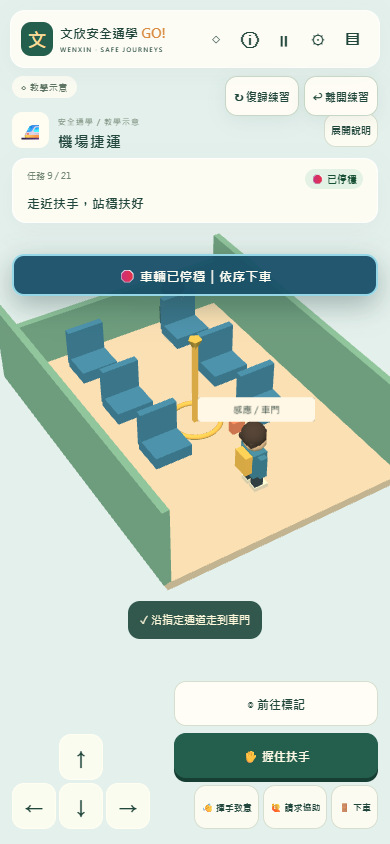
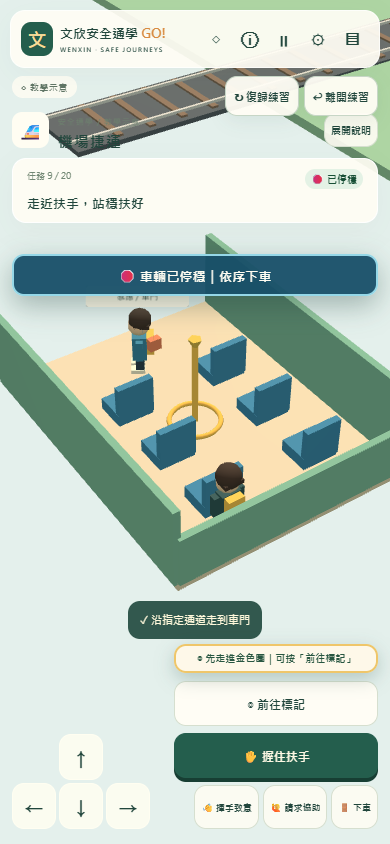
Fix metro arrival geometry and rename bus practice point

diff --git a/src/world.ts b/src/world.ts
@@ -215,10 +215,10 @@ export class World {
     },undefined,()=>{this.container.dataset.streetAssets='failed';this.label('路燈模型待載入',-6,2,13,3);});
   }
   buildExploreMarkers(){this.root.add(this.exploreMarkers);for(const site of exploreSites){const g=new THREE.Group();const ring=new THREE.Mesh(new THREE.TorusGeometry(.66,.09,8,24),this.mat(0xf3c55e));ring.rotation.x=-Math.PI/2;ring.position.y=.11;g.add(ring);const pin=new THREE.Mesh(new THREE.ConeGeometry(.16,.38,7),this.mat(0x34705c));pin.position.y=1.1;g.add(pin);this.label(`${site.scenario.icon} ${site.scenario.label}`,0,1.9,0,3.3,g);g.position.set(site.entry.x,0,site.entry.z);g.userData.siteId=site.scenario.id;this.exploreMarkers.add(g);}}
-  buildLandmarkVehicles(){this.root.add(this.landmarkVehicles);for(const [kind,x,z] of [['school_bus',30,9],['parent',-16,6],['parent',12,6],['scooter',-1,6.5],['scooter',-38,-14],['after_school_shuttle',-6,-5],['mrt',64,3]] as const){const vehicle=this.makeVehicle(kind);vehicle.position.set(x,0,z);if(kind!=='mrt'&&(z>=7||kind==='parent'||kind==='scooter'&&x===-1))vehicle.rotation.y=x>=0?-Math.PI/2:Math.PI/2;this.landmarkVehicles.add(vehicle);}}
+  buildLandmarkVehicles(){this.root.add(this.landmarkVehicles);for(const [kind,x,z] of [['school_bus',30,9],['parent',-16,6],['parent',12,6],['scooter',-1,6.5],['scooter',-38,-14],['after_school_shuttle',-6,-5],['mrt',64,17.2]] as const){const vehicle=this.makeVehicle(kind);vehicle.position.set(x,0,z);if(kind==='mrt')vehicle.rotation.y=-Math.PI/2;else if(z>=7||kind==='parent'||kind==='scooter'&&x===-1)vehicle.rotation.y=x>=0?-Math.PI/2:Math.PI/2;this.landmarkVehicles.add(vehicle);}}
   cone(x:number,z:number){this.box(.58,.1,.58,0xf37f44,x,.1,z);const cone=new THREE.Mesh(new THREE.ConeGeometry(.23,.75,8),this.mat(0xf4874c));cone.position.set(x,.5,z);cone.castShadow=true;this.root.add(cone);this.box(.24,.13,.24,0xfff9e6,x,.54,z);}
   chain(start:number,end:number){for(let z=start;z<end;z+=.15){const mesh=new THREE.Mesh(new THREE.TorusGeometry(.1,.022,4,7),this.mat(0xf2d56e));mesh.rotation.y=Math.PI/2;mesh.rotation.x=Math.round(z/.15)%2?Math.PI/3:0;mesh.position.set(1,.95,z);this.root.add(mesh);}}
-  makeTrain(showLabel=true){const g=new THREE.Group();for(const offset of [-8,0,8]){const car=new THREE.Group();this.box(2.55,2.35,7.45,0xb4a0ca,0,1.47,0,car);this.box(2.55,.25,7.45,0x775e9b,0,2.75,0,car);for(const z of [-2.6,-1.5,1.45,2.55])for(const x of [-1.3,1.3])this.box(.04,.85,.8,0x83bfcc,x,2,z,car);this.box(.07,1.85,1.25,0xe8e3d0,-1.32,1.45,.1,car).userData.action='board';for(const z of [-2.4,2.4]){this.box(.4,.48,.65,0x34454e,0,.38,z,car);for(const x of [-1.23,1.23])this.wheel(.34,.2,x,.39,z,car,Math.sign(x));}car.position.z=offset;g.add(car);const wheels=(g.userData.wheels??=[]) as THREE.Group[];wheels.push(...(car.userData.wheels as THREE.Group[]));}if(showLabel)this.label('普通車・3 節車廂・示意',0,3.4,0,5,g);g.traverse(o=>{o.userData.vehicle=true;});return g;}
+  makeTrain(showLabel=true){const g=new THREE.Group();for(const offset of [-8,0,8]){const car=new THREE.Group();this.box(2.55,2.35,7.45,0xb4a0ca,0,1.47,0,car);this.box(2.55,.25,7.45,0x775e9b,0,2.75,0,car);for(const z of [-2.6,-1.5,1.45,2.55])for(const x of [-1.3,1.3])this.box(.04,.85,.8,0x83bfcc,x,2,z,car);this.box(.07,1.85,1.25,0xe8e3d0,-1.32,1.45,.1,car).userData.action='board';for(const z of [-2.4,2.4]){this.box(.4,.48,.65,0x34454e,0,.38,z,car);for(const x of [-1.23,1.23])this.wheel(.34,.2,x,.49,z,car,Math.sign(x));}car.position.z=offset;g.add(car);const wheels=(g.userData.wheels??=[]) as THREE.Group[];wheels.push(...(car.userData.wheels as THREE.Group[]));}if(showLabel)this.label('普通車・3 節車廂・示意',0,3.4,0,5,g);g.traverse(o=>{o.userData.vehicle=true;});return g;}
   makeVehicle(kind:string,showLabel=true){if(kind==='mrt')return this.makeTrain(showLabel);const g=new THREE.Group();if(kind==='scooter'){
       for(const z of [-1.05,1.05])this.wheel(.42,.22,0,.43,z,g);
       this.box(.72,.42,1.9,0x55a7a0,0,.66,0,g);this.box(.65,.22,.85,0x284c50,0,1,-.45,g);this.box(.12,1.05,.12,0x4e6264,0,1.1,.9,g);this.box(1.15,.12,.14,0x4e6264,0,1.6,.9,g);this.box(.55,.9,.12,0xe3e7dd,0,1.05,1.06,g);g.userData.brakeLights=[this.box(.45,.18,.08,0xc9493c,0,.91,-1.04,g)];const rider=this.person(0x547c91);rider.scale.setScalar(.62);rider.position.set(0,.62,.45);g.add(rider);if(showLabel)this.label('機車接送・示意',0,2.5,0,3,g);g.traverse(o=>{o.userData.vehicle=true;});return g;
@@ -288,18 +288,23 @@ export class World {
     this.label('家長汽車・停穩後看後方再下車',130,2.8,-2.1,5,this.parentCabin);
   }
   buildStation(){
-    this.box(16,.4,26,0xd7dfda,55,-.3,3);this.box(5,.15,26,0x576674,64,-.08,3);this.box(.18,.02,23,palette.yellow,60.6,.04,3);
-    for(const x of [49,60])for(const z of [-9,15])this.box(.3,4,.3,palette.green,x,2,z);
-    this.box(13,.25,4,palette.green,54.5,4.2,-6);
+    // The platform and rails run parallel to the road beyond its outer sidewalk; the train never crosses a car lane.
+    this.box(34,.4,6.5,0xd7dfda,63,-.3,12.25);
+    this.box(70,.2,3.6,0x59636c,70,-.16,17.2);
+    for(let x=37;x<=103;x+=1.5)this.box(.3,.09,3.15,0x8b7563,x,0,17.2);
+    for(const z of [15.97,18.43])this.box(70,.12,.12,0xd6d9d8,70,.09,z);
+    this.box(30,.02,.18,palette.yellow,63,.04,14.7);
+    for(const x of [48,78])for(const z of [9,15.4])this.box(.3,4,.3,palette.green,x,2,z);
+    this.box(13,.25,1.2,palette.green,54.5,4.2,9);
     // Keep the station open toward the player: a solid building hid the child and fare gate.
     for(const x of [48.2,55.8])this.box(.3,3.5,.3,palette.green,x,1.75,5.2);
     this.stationRoof=this.box(9,.28,7,0x4d876d,52,3.75,8);
     const stationRoofMaterial=this.stationRoof.material as THREE.MeshStandardMaterial;
     stationRoofMaterial.transparent=true;stationRoofMaterial.opacity=.32;stationRoofMaterial.depthWrite=false;
-    this.label('捷運站入口・示意',52,4.2,10,4.5);this.box(1.4,1.3,.35,0x477b72,55,1,7).userData.action='card';this.label('刷卡閘門',55,2.2,7,2.5);
-    this.box(7,.2,7,0xbfcbbd,56,.1,4);this.label('A8 方向普通車',55,3.2,-5,6);this.label('月台方向為教學示意',55,2.3,-5,6);this.label('先下後上',58,2,3,3);
-    for(let z=2;z<6;z+=1)this.box(1,.02,.15,palette.yellow,59,.04,z);
-    const officer=this.person(palette.mint);officer.position.set(57,0,3);this.root.add(officer);this.label('站務協助',57,2.3,3,2.5);
+    this.label('捷運站入口・示意',52,4.2,10,4.5);this.box(1.4,1.3,.35,0x477b72,55,1,12).userData.action='card';this.label('刷卡閘門',55,2.2,12,2.5);
+    this.box(7,.2,3,0xbfcbbd,56,.1,12);this.label('A8 方向普通車',55,3.2,14,6);this.label('月台方向為教學示意',55,2.3,14,6);this.label('先下後上',61,2,13.2,3);
+    for(let x=59;x<64;x+=1)this.box(.15,.02,1,palette.yellow,x,.04,13.2);
+    const officer=this.person(palette.mint);officer.position.set(57,0,13.2);this.root.add(officer);this.label('站務協助',57,2.3,13.2,2.5);
   }
   buildDestination(){
     this.box(14,.3,18,palette.path,82,-.2,-1);this.box(5,4,3,palette.cream,80,2,-8);this.box(6,.3,4,palette.coral,80,4.1,-8);this.label('示意目的地・安全交接區',80,3,-5,6);this.label('非真實安親班或住址',80,2,-5,5);this.box(6,.03,9,0xc7dac8,80,.04,0);
@@ -376,7 +381,8 @@ export class World {
     if(j){
       const modeChanged=this.lastMode!==j.scenario.mode;
       if(modeChanged){this.root.remove(this.vehicle);this.vehicle.traverse(o=>{if(o instanceof THREE.Mesh){o.geometry.dispose();if(o.material instanceof THREE.Material)o.material.dispose();}if(o instanceof THREE.Sprite){this.labels.delete(o);o.material.map?.dispose();o.material.dispose();}});this.vehicle=this.makeVehicle(j.scenario.mode);this.root.add(this.vehicle);this.lastMode=j.scenario.mode;}
-      const stop=j.vehiclePosition;this.vehicle.visible=!!stop;if(stop)this.vehicle.position.set(j.position.x>70&&!j.inside?86:stop.x,0,j.position.x>70&&!j.inside?1:stop.z);this.vehicle.rotation.y=stop&&(stop.z>=7||j.scenario.mode==='parent'||j.scenario.id==='scooter_main')?(stop.x>=0?-Math.PI/2:Math.PI/2):0;
+      const stop=j.vehiclePosition;this.vehicle.visible=!!stop;if(stop){const destinationView=j.scenario.mode!=='mrt'&&j.position.x>70&&!j.inside;this.vehicle.position.set(destinationView?86:stop.x,0,destinationView?1:stop.z);}this.vehicle.rotation.y=j.scenario.mode==='mrt'?-Math.PI/2:stop&&(stop.z>=7||j.scenario.mode==='parent'||j.scenario.id==='scooter_main')?(stop.x>=0?-Math.PI/2:Math.PI/2):0;
+      this.container.dataset.vehicleX=stop?this.vehicle.position.x.toFixed(2):'';this.container.dataset.vehicleZ=stop?this.vehicle.position.z.toFixed(2):'';
       if(stop)this.rollVehicle(this.vehicle,dt);else this.wheelOrigins.delete(this.vehicle);
       const vehicleBraking=!!stop&&j.departAt===null&&(j.facts.vehicleStopped===true||j.rideAt===null&&j.vehicleProgress>.65);
       this.setBrakes(this.vehicle,vehicleBraking);this.container.dataset.vehicleWheelAngle=this.wheelAngle(this.vehicle);this.container.dataset.vehicleBrake=String(vehicleBraking);

diff --git a/src/game/journey.ts b/src/game/journey.ts
@@ -48,13 +48,13 @@ export function makeSteps(s:Scenario,reverse:boolean):Step[]{
   const shuttle=s.mode==='after_school_shuttle';
   const publicTransit=['mrt','bus','transfer'].includes(s.mode);
   const mrt=s.mode==='mrt';
-  const queue=shuttle?p(2,-5):mrt?p(59,3):p((s.stop?.x??3)-2,11);
+  const queue=shuttle?p(2,-5):mrt?p(61,13.2):p((s.stop?.x??3)-2,11);
   const assembly=shuttle?p(4,-8):mrt?p(53,11):p((s.stop?.x??3)-3,11);
   const steps=[step('assembly',shuttle?'沿左側步道到集合區':mrt?'沿人行空間抵達捷運站外':'走到各自的示意安全候車區','assembly','📍 安全集合',assembly)];
-  if(mrt)steps.push(step('station','走進站體，找到通往月台的路','station','🏢 進入車站',p(53,8)),step('fareGate','在閘門刷卡後再往月台走','card','💳 刷卡進站',p(55,7)));
-  steps.push(step('identify',mrt?'確認往 A8 的普通車方向':'確認車輛識別：星星 01','identify',mrt?'🚈 確認方向':'⭐ 核對車號',mrt?p(55,6):assembly),step('queue','站在隊伍尾端，等前方同學','queue','👣 依序排隊',queue));
+  if(mrt)steps.push(step('station','走進站體，找到通往月台的路','station','🏢 進入車站',p(53,12)),step('fareGate','在閘門刷卡後再往月台走','card','💳 刷卡進站',p(55,12)));
+  steps.push(step('identify',mrt?'確認往 A8 的普通車方向':'確認車輛識別：星星 01','identify',mrt?'🚈 確認方向':'⭐ 核對車號',mrt?p(56,13):assembly),step('queue','站在隊伍尾端，等前方同學','queue','👣 依序排隊',queue));
   if(s.mode==='mrt')steps.push(step('platform','站在安全線後，先讓乘客下車','platform','🚈 先下後上',queue,'platform'));
-  steps.push(step('clearance',shuttle?'等車停妥，由成人開放指定口':'等車停穩、開門及人員引導','clearance','🧑 請成人確認',queue,'gate'),step('board','沿指定通道走到車門','board','🚪 依序上車',shuttle?p(-4,-5):mrt?p(61,3):p((s.stop?.x??3)-1,11),'board'));
+  steps.push(step('clearance',shuttle?'等車停妥，由成人開放指定口':'等車停穩、開門及人員引導','clearance','🧑 請成人確認',queue,'gate'),step('board','沿指定通道走到車門','board','🚪 依序上車',shuttle?p(-4,-5):mrt?p(64,15.3):p((s.stop?.x??3)-1,11),'board'));
   if(publicTransit){if(!mrt)steps.push(step('card','在車內感應票卡','card','💳 感應票卡',p(110,2)));steps.push(step('rail','走近扶手，站穩扶好','rail','✋ 握住扶手',p(110,0),'rail'),step('depart','準備妥當，開始乘車','depart','🚈 穩穩乘車',p(110,0),'rail'));}
   else steps.push(step('seat','依虛構座號找到 02A','seat','💺 入座 02A',p(108.5,-1),'seat'),step('buckle','將插扣拖入扣環，或點按扣合','buckle','🔒 扣好安全帶',p(108.5,-1),'buckle'),step('depart','坐定繫好，等候發車','depart','🚐 準備出發',p(108.5,-1),'depart'));
   if(s.mode==='bus'||s.mode==='transfer')steps.push(step('bell','接近示意目的站，按下車鈴','bell','🔔 按下車鈴',p(110,0)));
@@ -103,6 +103,7 @@ export class Journey {
     if(this.scenario.mode==='parent')return {x:stop.x+remaining*(stop.x<0?-12:12),z:stop.z};
     if(this.scenario.id==='scooter_main')return {x:stop.x-remaining*8,z:stop.z};
     if(this.scenario.id==='scooter_side')return {x:stop.x,z:stop.z-remaining*12};
+    if(this.scenario.mode==='mrt')return {x:stop.x+remaining*25,z:stop.z};
     return stop.z>=7?{x:stop.x+remaining*12,z:stop.z}:{x:stop.x,z:stop.z+remaining*(this.scenario.mode==='after_school_shuttle'?7:12)};
   }
   get gateOpen(){return this.scenario.mode==='after_school_shuttle'&&this.current?.id==='board'&&this.evaluator.evaluate('gate',this.facts).allowed;}
@@ -170,7 +171,7 @@ export class Journey {
     if(action==='arrival')this.facts.adultCleared=true;
     if(action==='bell')this.facts.bell=true;
     if(action==='unbuckle'){this.facts.buckled=false;this.facts.unbuckled=true;}
-    if(action==='alight')this.position=this.scenario.mode==='scooter'?(this.scenario.id==='scooter_side'?p(-33,-14):p(-5,11)):this.scenario.mode==='mrt'?p(59,3):this.scenario.mode==='after_school_shuttle'||this.reverse?p(80,2):this.scenario.mode==='parent'?p(this.scenario.stop!.x-2.4,10.8):p(1,9);
+    if(action==='alight')this.position=this.scenario.mode==='scooter'?(this.scenario.id==='scooter_side'?p(-33,-14):p(-5,11)):this.scenario.mode==='mrt'?p(64,15.3):this.scenario.mode==='after_school_shuttle'||this.reverse?p(80,2):this.scenario.mode==='parent'?p(this.scenario.stop!.x-2.4,10.8):p(1,9);
     if(action==='clearCar'){this.facts.doorClosed=true;this.facts.clearOfBlindSpot=true;this.departAt=this.elapsed;}
     if(action==='clearScooter'){this.facts.clearOfBlindSpot=true;this.departAt=this.elapsed;}
     this.index++;this.checkpoint={...this.position};this.stoppedFor=0;
@@ -186,13 +187,13 @@ export class Journey {
     }
     const to={x:this.position.x+dx,z:this.position.z+dz};
     if(this.inside){if(this.scenario.mode==='scooter'?to.x<117||to.x>123||to.z<-4||to.z>3.5:this.scenario.mode==='parent'?to.x<127||to.x>133||to.z<-4||to.z>3.5:to.x<107||to.x>113||to.z<-4||to.z>3.5)return false;}
-    else if(this.position.x>70){if(to.x<76||to.x>83||to.z<-6||to.z>5)return false;}
-    else if(this.scenario.mode==='mrt'&&this.position.x>45&&this.position.x<70&&this.position.z<7.4){
-      if(to.x<47||to.x>62||to.z< -4||to.z>12)return false;
-      if(to.x>60.2){const r=this.evaluate('platform',{correctDirection:this.facts.correctDirection,behindLine:this.current?.id==='board',doorNotClosing:this.facts.doorOpen});if(!r.allowed)return false;}
+    else if(this.position.x>70&&this.scenario.mode!=='mrt'){if(to.x<76||to.x>83||to.z<-6||to.z>5)return false;}
+    else if(this.scenario.mode==='mrt'&&this.position.x>45&&this.position.x<80&&this.position.z>8.5&&this.position.z<20){
+      if(to.x<47&&!(this.current?.id==='walkToSchool'&&onPedestrianSpace(to))||to.x>79||to.z<9||to.z>15.5)return false;
+      if(to.z>14.7&&to.z>this.position.z){const r=this.evaluate('platform',{correctDirection:this.facts.correctDirection,behindLine:this.current?.id==='board',doorNotClosing:this.facts.doorOpen});if(!r.allowed)return false;}
     }
     else {
-      const stationWalk=this.scenario.mode==='mrt'&&to.x>=47&&to.x<=62&&to.z>=-4&&to.z<=12;
+      const stationWalk=this.scenario.mode==='mrt'&&to.x>=47&&to.x<=79&&to.z>=9&&to.z<=15.5;
       if(!(onPedestrianSpace(to)||stationWalk||onMarkedCrosswalk(to))){if(otherRoads.some(road=>intersects(this.position,to,road)))this.evaluate('vehicleLane',{safePlace:false});return false;}
       if(intersects(this.position,to,campusParkingArea)){this.evaluate('vehicleLane',{safePlace:false});return false;}
       if(this.scenario.stop&&(this.scenario.stop.z>=7||this.scenario.mode==='parent')&&intersects(this.position,to,{minX:this.scenario.stop.x-2,maxX:this.scenario.stop.x+2,minZ:this.scenario.mode==='parent'?4.6:7.1,maxZ:this.scenario.mode==='parent'?7.35:10.4})){

diff --git a/tests/safety/evaluator.test.ts b/tests/safety/evaluator.test.ts
@@ -41,6 +41,25 @@ describe('V2.4 scene data validation',()=>{
   it('visible car approach slows before stopping while the safety gate stays closed',()=>{const car=scenarios.find(s=>s.id==='parent')!;const j=new Journey(car);const start=j.vehiclePosition!;j.update(2.5);const halfway=j.vehiclePosition!;expect(Math.abs(halfway.x-car.stop!.x)).toBeLessThan(Math.abs(start.x-car.stop!.x)/2);expect(j.facts.vehicleStopped).toBe(false);expect(j.attempt('park')).toBe(false);expect(j.blocked?.ruleId).toBe('parentPark');j.retry();j.update(2.5);expect(j.vehiclePosition).toEqual(car.stop);expect(j.facts.vehicleStopped).toBe(true);});
   it('motorcycle pickup is at separate road-side main and Fuxing North side-gate sites',()=>{const bikes=scenarios.filter(s=>s.mode==='scooter');expect(bikes.map(s=>s.id)).toEqual(['scooter_main','scooter_side']);expect(bikes[0].stop).toEqual({x:-1,z:6.5});expect(onPedestrianSpace(bikes[0].stop!)).toBe(false);expect(bikes[1].stop).toEqual({x:-38,z:-14});expect(()=>validateScenario({...bikes[0],stop:{x:-1,z:9}})).toThrow();expect(()=>validateScenario({...bikes[1],stop:{x:6,z:-5}})).toThrow();});
   it('the MRT journey requires walking to a station, entering, tapping, boarding and exiting',()=>{const mrt=scenarios.find(s=>s.mode==='mrt')!;const ids=new Journey(mrt).steps.map(s=>s.id);expect(ids.slice(0,5)).toEqual(['assembly','station','fareGate','identify','queue']);expect(ids).toContain('platform');expect(ids.indexOf('stationExit')).toBeGreaterThan(ids.indexOf('alight'));expect(ids.indexOf('walkToSchool')).toBeGreaterThan(ids.indexOf('stationExit'));});
+  it('the arriving MRT stays beside the platform and opens the boarding approach only after stopping',()=>{
+    const j=new Journey(scenarios.find(s=>s.id==='mrt')!);
+    const roadEdge=frontRoad.maxZ,trackNearEdge=17.2-3.6/2,platformEdge=15.5,carHalfWidth=2.55/2;
+    expect(trackNearEdge).toBeGreaterThan(roadEdge);
+    expect(j.vehiclePosition!.z-carHalfWidth).toBeGreaterThan(platformEdge);
+    expect(j.vehiclePosition).toEqual({x:89,z:17.2});
+    j.index=j.steps.findIndex(s=>s.id==='board');j.position={x:61,z:13.2};j.facts.correctDirection=true;
+    expect(j.move(3,2.1)).toBe(false);expect(j.blocked?.ruleId).toBe('platform');
+    j.retry();j.position={x:61,z:13.2};j.update(5);
+    expect(j.vehiclePosition).toEqual({x:64,z:17.2});expect(j.facts.vehicleStopped).toBe(true);
+    expect(j.move(3,2.1)).toBe(true);expect(j.position.x).toBe(64);expect(j.position.z).toBeCloseTo(15.3);
+    expect(Math.abs(j.position.z-(j.vehiclePosition!.z-1.32))).toBeLessThan(INTERACTION_RADIUS);
+    j.index=j.steps.findIndex(s=>s.id==='stationExit');
+    expect(j.move(-.5,-.4)).toBe(true);
+    j.index=j.steps.findIndex(s=>s.id==='walkToSchool');j.position={x:47.1,z:11};
+    expect(j.move(-.3,0)).toBe(true);
+    j.index=j.steps.findIndex(s=>s.id==='queue');j.position={x:71,z:13};
+    expect(j.move(1,0)).toBe(true);
+  });
   it('one map has all practice sites without a separate guard station and blocks shortcuts',()=>{expect(exploreSites).toHaveLength(scenarios.length);expect(exploreSites.some(site=>site.scenario.id==='guard')).toBe(false);const e=new Exploration();expect(nearbySite(e.position)?.scenario.id).toBe('walk');expect(e.move(1,0)).toBe(true);e.position={x:6,z:8};let blocked='';e.onResult=r=>{blocked=r.ruleId;};expect(e.move(0,-2)).toBe(false);expect(blocked).toBe('vehicleLane');e.position={x:3,z:-5};expect(e.move(-5,0)).toBe(false);expect(blocked).toBe('barrier');});
   it('the Fuxing North side approach begins in another block and has its own marked crossing',()=>{expect(crossings).toHaveLength(2);expect(crossings[1]).toMatchObject({x:-38,z:-8});const e=new Exploration();e.position={x:-43,z:-24};expect(nearbySite(e.position)?.scenario.id).toBe('walk_side');for(let z=-23;z<=-10;z++){expect(onPedestrianSpace({x:-43,z})).toBe(true);expect(e.move(0,1)).toBe(true);}expect(onMarkedCrosswalk({x:-38,z:-8})).toBe(true);expect(onMarkedCrosswalk({x:-38,z:4.5})).toBe(false);expect(e.move(5,0)).toBe(false);});
   it('pedestrian figures face the waiting sides while vehicle lights stand across both roads',()=>{

diff --git a/tests/e2e/game.spec.ts b/tests/e2e/game.spec.ts
@@ -19,6 +19,13 @@ async function press(page:Page,selector:string,touch=false){if(touch)await page.
 async function chooseSite(page:Page,scene:string,reverse=false,touch=false){await press(page,'#missions',touch);if(reverse)await page.locator('#direction').selectOption('fromSchool');await press(page,`[data-place="${scene}"]`,touch);await press(page,'#interact',touch);}
 async function start(page:Page,scene='walk',reverse=false,touch=false){await page.goto('/');await press(page,'#start',touch);if(scene!=='walk'||reverse)await chooseSite(page,scene,reverse,touch);else await press(page,'#interact',touch);await expect(page.locator('#hud')).toBeVisible();}
 async function stage(page:Page){return page.locator('#app').getAttribute('data-stage');}
+test('the former transfer map point is labeled 搭乘公車',async({page})=>{
+  await page.goto('/');await page.locator('#start').click();await page.locator('#missions').click();
+  await expect(page.locator('[data-place="transfer"]')).toContainText('搭乘公車');
+  await expect(page.locator('#map-panel')).not.toContainText('安全轉乘');
+  await page.locator('[data-place="transfer"]').click();await page.locator('#interact').click();
+  await expect(page.locator('#scene-title')).toHaveText('搭乘公車');
+});
 test('main and side crossing show a green walking figure only while cars stop',async({page})=>{
   await page.setViewportSize({width:1366,height:768});await start(page);
   await expect(page.locator('#world')).toHaveAttribute('data-pedestrian-signal','red');
@@ -279,6 +286,10 @@ test('pause and safety feedback offer both restart and exit',async({page})=>{
 });
 test('MRT entrance remains visible while the player walks inside the open station',async({page})=>{
   await page.setViewportSize({width:1366,height:768});await start(page,'mrt');
+  await expect(page.locator('#world')).toHaveAttribute('data-vehicle-z','17.20');
+  await expect(page.locator('#world')).toHaveAttribute('data-vehicle-x','64.00',{timeout:15000});
+  await expect(page.locator('#world')).toHaveAttribute('data-vehicle-brake','true');
+  mkdirSync('docs/screenshots',{recursive:true});await page.screenshot({path:'docs/screenshots/mrt-arrived-platform-1366.png'});
   await moveAndAct(page);await expect(page.locator('#app')).toHaveAttribute('data-stage','station');
   await page.locator('#assist').click();await expect(page.locator('#assist')).toHaveText('◎ 前往標記',{timeout:40000});
   mkdirSync('docs/screenshots',{recursive:true});await page.screenshot({path:'docs/screenshots/mrt-open-station-1366.png'});
@@ -286,6 +297,9 @@ test('MRT entrance remains visible while the player walks inside the open statio
   await expect(page.locator('#app')).toHaveAttribute('data-stage','board');
   await page.locator('#assist').click();await expect(page.locator('#assist')).toHaveText('◎ 前往標記',{timeout:40000});
   await page.screenshot({path:'docs/screenshots/mrt-platform-1366.png'});
+  await page.setViewportSize({width:390,height:844});await page.screenshot({path:'docs/screenshots/mrt-platform-390.png'});
+  expect(await page.evaluate(()=>document.documentElement.scrollWidth>innerWidth)).toBe(false);
+  await page.setViewportSize({width:1366,height:768});
   await page.locator('#interact').click();await expect(page.locator('#app')).toHaveAttribute('data-stage','rail');
   await page.screenshot({path:'docs/screenshots/mrt-cabin-1366.png'});
   await page.setViewportSize({width:390,height:844});await expect(page.locator('#restart-practice')).toBeVisible();

diff --git a/src/data/scenarios.ts b/src/data/scenarios.ts
@@ -9,13 +9,13 @@ export const scenarios:Scenario[]=[
   make('walk_side','walk','復興北路側門步行','🚶','從其他街區沿復興北路人行道走到上學開放的側門',{x:-43,z:-24}),
   make('after_school_shuttle_courtyard','after_school_shuttle','安親班接駁','🚐','校內廣場・錐鏈分流・指定口登車',{x:5,z:-10},routes.after_school_shuttle.stop),
   make('school_bus_gate_exterior','school_bus','校車','🚌','校門東側外部示意區，不進入校園',{x:28,z:11},routes.school_bus.stop),
-  make('mrt','mrt','機場捷運','🚈','先到站體・進月台・三節車廂',{x:53,z:11},{x:63,z:3}),
+  make('mrt','mrt','機場捷運','🚈','先到站體・進月台・三節車廂',{x:53,z:11},{x:64,z:17.2}),
   make('bus','bus','公車','🚍','示意站點・排隊刷卡・按鈴下車',{x:15,z:11},{x:18,z:9}),
   make('parent','parent','正門西側汽車送學','🚙','短暫停妥・看後方・安全側下車・沿人行道過馬路',{x:-19,z:11},routes.parent.stop),
   make('parent_east','parent','正門東側汽車送學','🚙','短暫停妥・看後方・安全側下車・沿人行道過馬路',{x:10,z:11},routes.parent_east.stop),
   make('scooter_main','scooter','正門機車送學','🛵','正門口依序停妥・安全下車・不與汽車混流',{x:-4,z:11},routes.scooter_main.stop),
   make('scooter_side','scooter','側門機車送學','🛵','側門口依序停妥・安全下車・走行人步道',{x:-33,z:-18},routes.scooter_side.stop),
-  make('transfer','transfer','安全轉乘','🔁','公車 → 步行 → 校門旁老師／志工',{x:17,z:11},{x:20,z:9}),
+  make('transfer','transfer','搭乘公車','🚍','公車候車・上車・按鈴下車後沿人行道到校',{x:17,z:11},{x:20,z:9}),
   make('human','human','人本交通設計師','🌱','觀察證據・改善設施・保留通道',{x:6,z:-10}),
 ];
 export function validateScenario(s:Scenario){

diff --git a/src/main.ts b/src/main.ts
@@ -75,7 +75,7 @@ function interact(action=journey?.current?.action,extras:Record<string,boolean>=
   const teacherGreeting=action==='greet'&&journey.teacherNearby;
   if(journey.attempt(action,extras)){
     assist=false;if(action==='left')world.yaw=-.65;if(action==='right')world.yaw=.65;
-    if(selected.mode==='mrt'&&before?.id==='identify')world.yaw=-.55;
+    if(selected.mode==='mrt'&&before?.id==='identify')world.yaw=2.55;
     if(action==='greet'){world.avatar.rotation.y+=.5;if(teacherGreeting){world.waveTeacher(selected.id==='walk_side');toast('👋 老師／志工向你揮手回應：早安！沿步道直接入校。');}else toast('謝謝你的友善揮手！禮貌是鼓勵，安全仍要每一步確認。');}
     else if(action==='help')toast(journey.inside?'保持坐好或扶穩，向隨車成人或可用求助設備求助，不打擾駕駛。':'留在安全區，找老師或隨車人員協助；接送不符時不上陌生車。');
     else toast(`✓ ${before?.label}`);

diff --git a/src/game/explore.ts b/src/game/explore.ts
@@ -15,7 +15,7 @@ const entries:Record<string,{entry:Point;area:string}>={
   parent_east:{entry:{x:10,z:11},area:'正門東側汽車接送・黃線示意區'},
   scooter_main:{entry:{x:-4,z:11},area:'正門口機車接送示意區'},
   scooter_side:{entry:{x:-33,z:-18},area:'復興北路側門機車接送示意區'},
-  transfer:{entry:{x:17,z:11},area:'轉乘示意廊道'},
+  transfer:{entry:{x:17,z:11},area:'公車乘車示意站'},
   human:{entry:{x:7,z:-8},area:'人本交通觀察點'},
 };
 export const exploreSites:ExploreSite[]=scenarios.map(scenario=>({scenario,...entries[scenario.id]}));

diff --git a/README.md b/README.md
@@ -34,7 +34,7 @@ npm run preview
 5. 安親班接駁：**站在正門朝校外看**，左側是樹蔭／學生步道，中央是連續錐鏈，右側是小型接駁車。學生沿錐鏈內側的步道走到正門小門；集合 → 星星 01 核對 → 隊尾等候 → 成人確認 → 指定口 → 車門 → 02A → 拖曳／點按扣好帶扣 → 乘車 → 停穩解扣 → 依序下車 → 示意目的地交接。校車只在校門外獨立區域。
    接駁車、校車、公車和機捷的乘車過程會顯示 3D 車外動態小視角；輪子隨模擬行進轉動，道路標線或捷運軌道枕木相對移動，車輛停妥後視角收起。此小視角為車輪與安全停等的教學示意，不代表實際路線。
 6. 家長汽車**上學送學**位於正門兩側短暫停靠示意區，學生從車內開始，不必在校門集合、核對車號或排隊上車。等家長停妥後解帶、看車門後方來車與自行車、選靠人行道側下車、關門並走到人行道，再依號誌及車流走斑馬線進校。家長確認安全後儘速駛離；遊戲不以操作速度計分，也不鼓勵匆忙開門。機車送學分在正門車道邊緣與復興北路側門口的獨立示意點，**機車不沿人行道行駛**；大地圖上可見前車先駛離、後車再入位。學生保持安全帽與坐穩，停穩後確認後方與行人再下車、走回步道，避免與兩側汽車短停混流。黃線實際臨停規則、時段與格位須依現場標誌和校方安排核實，遊戲不作真實停車指引。
-7. 捷運從校外人行空間走到示意站，進站、刷卡、月台先下後上、搭乘三節普通車，再出站走回人行空間。進站時屋頂會暫時讓出視線，月台改從候車側看列車，避免主角被站體或車身遮住。A8 方向及站點配置仍為教學示意，尚待現地與營運資料核實。
+7. 捷運從校外人行空間走到示意站，進站、刷卡、月台先下後上、搭乘三節普通車，再出站走回人行空間。列車沿道路外側的專用示意軌道平行進站，車身與月台、汽車道路分開；車停穩後才可走到車門。月台鏡頭從候車側看列車，主角、金圈及車門可同時看見。A8 方向及站點配置仍為教學示意，尚待現地與營運資料核實。
 8. 錐鏈不可穿越；危險行為立即停止，圖卡示範後回安全檢查點重試。禮貌是鼓勵，不能取代安全。
 9. 設定可調速度、文字、語音、左右手、低畫質及減少動態；字幕持續顯示。教師「紀錄」可查看匿名事件、首次安全比例、示範及重試完成，並匯出 JSON／CSV 或清除。
 
@@ -46,7 +46,7 @@ npm run preview
 | 安親班接駁 | 校內進場、連續錐鏈、成人受控口、排隊核對、座椅與帶扣、乘車交接 | 多車序列、現地 SOP、錯車求助 |
 | 校車 | 校門外獨立停靠、排隊登車、02A／帶扣、乘車下車及入校／返家 | 真實社區場景、留車求救、成人清車情境 |
 | 捷運 | 從校外步行至示意站、進站刷卡、月台安全線、三節普通車、先下後上、感應扶手、出站接步行 | A7／A9 起站分支、真正方向選擇、電梯與關門週期；尚不可作營運教學驗收 |
-| 公車、轉乘 | 示意候車、核對排隊、感應扶手、按鈴、停穩下車、接步行 | 多路線、動態遮蔽、四條完整轉乘鏈 |
+| 公車（地圖含「搭乘公車」地點） | 示意候車、核對排隊、感應扶手、按鈴、停穩下車、接步行 | 多路線、動態遮蔽、四條完整轉乘鏈 |
 | 汽車送學 | 正門西／東兩側獨立短停示意點；車內停妥、解帶、後方來車觀察、安全側下車、關門、人行道與斑馬線入校 | 合法臨停時段／格位現勘、放學接送異動獨立情境 |
 | 機車送學 | 正門口與復興北路側門口各有獨立 3D 機車點；前車離開後依序停妥、保持安全帽與坐穩、觀察後方、成人確認、下車走回步道 | 實際停靠與成人引導方式現勘、車流動態細化 |
 | 人本交通 | 風險／輪椅圖卡、坡道拖放與替代互動、3D 改善前後、提案事件 | 另兩類風險、不同用路人及設施、影響量化 |
@@ -79,6 +79,8 @@ build 自動產生靜態資源清單與 Service Worker。preview 首次下載並
 2026-11-05 導護人物動態：正門與側門各有老師、志工分站行穿線兩端。小綠人亮且車輛停讓後，人物走到斑馬線中段兩側揮手引導，保留學生中央通道；車輛放行前退回人行道。校側老師會在學生抵達對側時返回，仍可按問好。實際值勤位置、方式均屬教學示意，待校方核對；本輪測試詳見 `docs/TEST_REPORT.md`。
 
 2026-11-05 金圈互動與乘車車輪：可步行的任務須走進金色圈才可按動作；「前往標記」自動走到圈內後停止，停步需真正站穩，其他安全檢查仍由玩家操作。汽車／機車送學從座位開始，依車內提示操作。接駁車、校車、公車與三節機捷乘車時新增 3D 車外視角，可看見車體、車輪滾動與道路／軌道的相對移動；停車後視角收起。`npm install` 0 弱點，lint、typecheck、375/375 單元測試及 build 通過；8 項定向瀏覽器測試（含手機完整步行＋接駁與四類乘車視角）、正式版三尺寸與離線 4/4 通過。車外動態是教學示意，路線與實車尺寸待核實；詳見 `docs/TEST_REPORT.md`。
+
+2026-11-05 機捷進站修正：三節列車改在道路外側專用軌道平行進站，與月台留出安全間距；候車視角可看見主角與車門，停穩後才可越過安全線。出站可順利接回人行道。地圖原「安全轉乘」顯示為「搭乘公車」，公車操作仍保留。最新安裝 0 弱點、lint、typecheck、376/376 單元測試、build、機捷完整旅程、桌面／手機月台與正式版三尺寸／離線 4/4 通過；詳見 `docs/TEST_REPORT.md`。
 
 本輪 `npm install` 0 弱點，lint、typecheck、374/374 單元測試、build 通過；正門／側門動態引導 2/2、手機完整步行與接駁 1/1、正式版桌面／平板／手機與離線重載 4/4 通過。已核對兩處行穿線的 3D 截圖，停等車輛位於行穿線外。真實值勤安排與手機實機仍待校方驗收。
 

diff --git a/docs/TEST_REPORT.md b/docs/TEST_REPORT.md
@@ -2,6 +2,14 @@
 
 日期：2026-11-05（Asia/Taipei）。Windows 開發環境。
 
+## 2026-11-05 機捷進站與「搭乘公車」地點
+
+- 發現原機捷列車車身與月台邊緣重疊，軌道還橫穿校外汽車道路；初步移開車身後目視仍不合理。最終將三節列車、專用軌道與候車月台改為道路外側平行配置，車門對齊月台邊緣，停穩後才可越過安全線。候車鏡頭從月台側看列車，角色、金圈與車門不再被車廂擋住。
+- 完整機捷旅程首次回歸發現出站後受到舊月台邊界阻擋；已修正站區到人行道的銜接。重新跑完進站、刷卡、排隊、上車、握扶手、乘車、下車、出站、沿人行道入校，Playwright 1/1 通過（約 2.2 分鐘）。另機捷進站／月台／復歸 1/1、乘車車輪 1/1、「搭乘公車」地圖與練習標題 1/1 通過。
+- `screenshots/mrt-arrived-platform-1366.png`、`screenshots/mrt-platform-1366.png`、`screenshots/mrt-platform-390.png` 已目視核對；手機 390×844 沒有橫向溢出。`npm install` 0 弱點，lint、typecheck、376/376 單元測試及正式 build 通過；正式版桌面 1366×768、平板 768×1024、手機 390×844 與離線重載 4/4 通過。本機預覽 HTTP 200 且提供新建置檔案。
+- 最後驗證曾同時啟動兩組 WebGL 瀏覽器測試，離線測試的固定 400 毫秒移動量因渲染資源競爭不足而失敗 1 項；機捷測試當時 2/2 通過。停止並行後，未修改遊戲程式，獨立重跑正式版離線／三尺寸 4/4 通過。
+- A8 真實月台位置、出口及軌道工程尺寸仍為教學示意，未以本次模型代表現地配置。
+
 ## 2026-11-05 金圈導航與乘車車外輪子
 
 - 說明視窗明列「可步行任務走進地上金色圈，再按右側任務動作或 E」；汽車／機車座位起始任務依車內提示操作。「前往標記」只輔助角色行走，到圈內停止。互動半徑與可見金圈一致，停步需真正停穩片刻；行人號誌、車輛停穩、安親班車成人放行未達條件時，提示顯示等待而不誤亮動作鍵。`screenshots/gold-circle-ready-1366.png` 已目視核對角色站在圈內、提示與「停步」鍵同時清楚可見。

diff --git a/MASTER_SPEC.md b/MASTER_SPEC.md
@@ -1,4 +1,5 @@
 # 文欣安全通學 GO！｜完整遊戲開發企劃 V2.0
+> 2026-11-05 機捷進站與地圖名稱修正：機捷示意列車沿校外道路外側的專用軌道平行進站，車身不與月台或汽車道路重疊；乘客在月台候車側可看見角色、金圈與車門，停穩後才可往車門。原地圖「安全轉乘」地點顯示為「搭乘公車」，其公車上下車與接續步行操作保留。實際站體與軌道位置仍待核對。
 > 2026-11-05 操作補充：可步行的任務先走進可見金色互動圈再按動作；汽車／機車座位起始任務依車內提示操作。「前往標記」可自動走進圈內，但不自動通關或略過安全條件。交通工具乘車時需看見 3D 車體、車輪轉動與停穩，機捷以軌道示意，不把列車畫在道路上。
 > 2026-11-05 導護人物動態補充：正門與側門各有老師、志工分站行穿線兩端；行人小綠人亮、車輛停讓後，兩人走到行穿線中段兩側協助引導，保留中央學生通道，並在車輛恢復通行前退回人行道。學生過街後仍可向校側老師問好，不另設導護站。人物站位與動線為教學示意，待校方核對。
 > 2026-11-05 使用者修正：不設獨立「導護站」練習點或場景標籤。正門與側門先依小綠人、車輛停讓安全過街；過街後可向步道旁老師／志工揮手問好並繼續入校。問好可操作且有回應，但不是通行必要條件。此修正優先於下文歷史敘述中的「導護站」安排。

diff --git a/docs/PROGRESS.md b/docs/PROGRESS.md
@@ -1,5 +1,12 @@
 # 開發進度 — V2.4 開放式大地圖
 
+2026-11-05 機捷進站與公車地點名稱修正：
+
+- [x] 機捷示意月台與三節列車改為沿校外道路外側平行配置，增設連續軌枕與鋼軌；列車從軌道端駛入，停車時車身不壓月台，也不在汽車車道平面交會。月台鏡頭改從候車側觀看，桌面與手機可看見角色、金圈及車門。
+- [x] 候車區越過安全線仍須列車停穩與開門；下車後可離開站區接回人行道。地圖原「安全轉乘」地點顯示為「搭乘公車」，保留公車上下車與接續步行操作。
+- [x] 376/376 單元測試；機捷進站、乘車車輪、桌面／手機月台視角、從進站到入校完整旅程，以及「搭乘公車」標籤均完成定向瀏覽器驗證。正式建置與離線三尺寸結果見 `docs/TEST_REPORT.md`。
+- [ ] 示意月台、軌道方位、出口與 A8 實站空間仍待照片及現地核對；iOS／Android 實機尚未驗收。
+
 2026-11-05 金圈互動與車外車輪動態：
 
 - [x] 可捲動遊戲說明新增「可步行任務先走進金色圈、再按 E／動作」；「前往標記」自動走進圈內後停止，不自動完成動作。汽車／機車座位起始任務改以車內提示說明。圈內提示與按鍵亮起狀態依停穩、車輛停讓、行人號誌、成人放行更新，不讓玩家照提示操作卻立即收到錯誤回饋。

diff --git a/docs/ACCEPTANCE.md b/docs/ACCEPTANCE.md
@@ -6,6 +6,7 @@
 - [ ] 圖形實際使用 WebGL 3D，角色能在場景行走，車輛與 NPC 有行為。
 - [ ] 步行：由鄰近街道出發，至少經過一處號誌／行穿線，能觀察、停等、穿越，過街後可向步道旁老師／志工問好並直接入校。
 - [ ] 捷運：由 A7 或 A9 進站、選方向、候車、上車、至 A8 下車出站且接續步行；避免衝門。
+- [ ] 機捷示意列車沿道路外側軌道進站，車身不壓入月台或穿越汽車道路；桌面與手機候車視角可看見學生、金圈與車門。停穩前不能走過安全線，出站後可接回人行道。
 - [ ] 公車：從已核站點或明確示意站點候車、看車次、排隊、車內扶穩、按鈴、下車避開視線死角。
 - [ ] 校車：候車順序、停穩上下車、編號入座、安全帶與隨車人員協助、下車致謝。
 - [ ] 補習班接駁：確認車輛身分、指定安全等待區、上下車安全、乘車禮儀。
